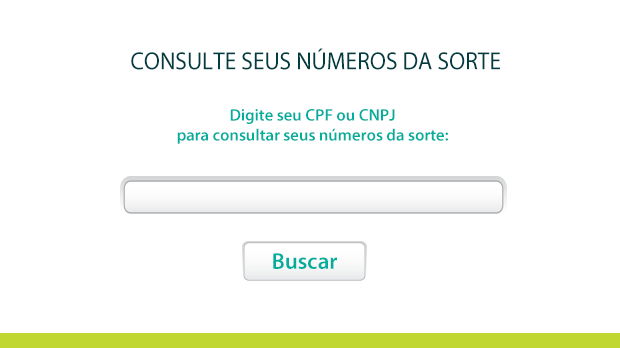
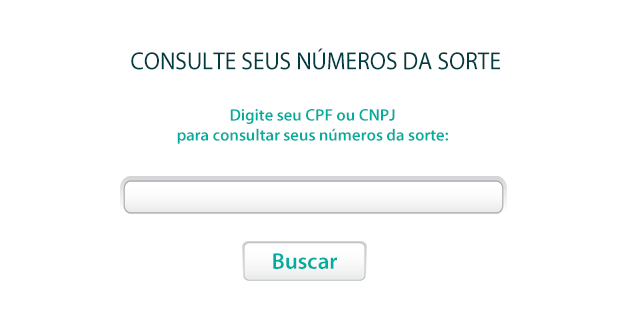
Consult

diff --git a/public/site/css/style.css b/public/site/css/style.css
@@ -1690,29 +1690,59 @@ h1, h2, h3, h4, h5, h6, figure {
 }
 .box-consult{
     display: inline-block;
-    background-image: url("../images/box-consult.png");
+    background-image: url("../images/login_full.png");
     background-repeat: no-repeat;
-    background-size: cover;
-    width: 460px;
+    background-size: 100%;
+    width:800px;
     height:319px;
+    margin: auto;
+    position: relative;
+    top: 60px;
+    margin-top:100px;
+}
+.form-show-2{display: none}
+.box-consult form{
     float: right;
+    width: 330px;
+    text-align: center;
+}
+.img-table{
+    display: none;
 }
 #txt_cupom{
-    display: inline-block;
+    float: left;
     height: 30px;
-    width: 336px;
+    width: 70%;
     border: 0px;
-    margin-top: 165px;
-    margin-left: -20px;
+    margin-top: 120px;
+    margin-left:40px;
     background: none;
 }
 #btn_search_cupom{
-    display: inline-block;
+    float: left;
+    height: 40px;
+    width: 150px;
+    border: 0px;
+    margin-top: 15px;
+    margin-left: 45px;
+    background: none;
+}
+#txt_cupom1{
+    float: left;
+    height: 30px;
+    width: 70%;
+    border: 0px;
+    margin-top: 165px;
+    margin-left:55px;
+    background: none;
+}
+#btn_search_cupom1{
+    float: left;
     height: 40px;
     width: 150px;
     border: 0px;
     margin-top: 25px;
-    margin-left: -6px;
+    margin-left: 85px;
     background: none;
 }
 .tbl-numeros-sorte{
@@ -1946,6 +1976,8 @@ ul.list-results-content li .second{
         max-height: 300px;
         padding-top: 20px;
     }
+
+
 }
 @media screen and (max-width: 805px) {
     .fh5co-nav ul li a {
@@ -1971,6 +2003,65 @@ ul.list-results-content li .second{
         width: 100%;
         height: 500px;
         margin-bottom: 20px;
+    }
+
+    #fh5co-register{
+        background-image: none!important;
+        border: 0px;
+        padding: 0px!important;
+        height: auto;
+        min-height: 100px;
+        background: #ffffff;
+        margin-top: 0px;
+        padding-bottom: 30px;
+    }
+    .box-consult {
+        display: block;
+        background-image: url("../images/box-consult-responsive.png");
+        background-repeat: no-repeat;
+        background-size: cover;
+        background-position: center center;
+        width: 400px;
+        height: 319px;
+        margin-top: 0px;
+        padding-top: 0px;
+        margin: auto!important;
+    }
+    .box-consult form{
+        width: 100%;
+        position: relative;
+        top: 13px;
+    }
+    #txt_cupom{
+        float: left;
+        height: 30px;
+        width: 70%;
+        border: 0px;
+        margin-top: 165px;
+        margin-left:55px;
+        background: none;
+    }
+    #btn_search_cupom{
+        float: left;
+        height: 40px;
+        width: 150px;
+        border: 0px;
+        margin-top: 25px;
+        margin-left: 105px;
+        background: none;
+    }
+    .img-table{
+        display: block;
+        width: 100%;
+        margin-bottom: 30px;
+    }
+
+    #sw-my-numbers h1{
+        font-size: 20px;
+        margin-top: 0px;
+    }
+    #sw-my-numbers h3{
+        font-size: 15px;
     }
 }
 @media screen and (max-width: 768px) {
@@ -2115,6 +2206,13 @@ ul.list-results-content li .second{
         width: 100%;
         height: 319px;
         float: left;
+    }
+    #sw-my-numbers h1{
+        font-size: 15px;
+        margin-top: 0px;
+    }
+    #sw-my-numbers h3{
+        font-size: 13px;
     }
 }
 @media screen and (max-width: 290px) {

diff --git a/resources/views/site/partials/my-numbers.blade.php b/resources/views/site/partials/my-numbers.blade.php
@@ -1,6 +1,37 @@
 <div id="my-numbers"></div>
 <div id="fh5co-course-categories">
-    <div class="container">
+
+    <div class="col-md-12 img-table">
+        <table class="table table-condensed tbl-numeros-sorte">
+            <thead>
+            <tr>
+                <th class="col-md-8">Período considerado para <br/>distribuição dos Números da Sorte</th>
+                <th class="col-md-4">Data disponibilização Números da<br/> Sorte referente ao período do hotsite</th>
+            </tr>
+            </thead>
+            <tbody>
+            <tr>
+                <td class="text-left">De 0h do dia 15/11/2017 até às 23h59m59s do dia 30/11/2017</td>
+                <td>Até 15/12/2017</td>
+            </tr>
+            <tr>
+                <td class="text-left">De 0h do dia 01/12/2017 até às 23h59m59s do dia 31/11/2017</td>
+                <td>Até 17/12/2018</td>
+            </tr>
+            <tr>
+                <td class="text-left">De 0h do dia 01/01/2018 até às 23h59m59s do dia 31/01/2017</td>
+                <td>Até 20/02/2018</td>
+            </tr>
+            <tr>
+                <td class="text-left">De 0h do dia 01/02/2018 até às 23h59m59s do dia 18/02/2017</td>
+                <td>Até 01/03/2018</td>
+            </tr>
+            </tbody>
+        </table>
+    </div>
+
+
+    <div class="container" id="sw-my-numbers">
         <div class="row animate-box">
             <div class="col-md-6 col-md-offset-3 text-center fh5co-heading fh5co-heading-1">
                 <h1>MEUS NÚMEROS DA SORTE</h1>

diff --git a/resources/views/site/partials/form-search.blade.php b/resources/views/site/partials/form-search.blade.php
@@ -1,5 +1,21 @@
 <div id="lk_formconsult"></div>
-<div id="fh5co-register" style="background-image: url({{asset('site/images/img_bg_2.jpg')}});">
+<div class="form-show-2" id="fh5co-register" style="background-image: url({{asset('site/images/img_bg_2.jpg')}});">
+    <div class="row" >
+        <div class="col-md-8 col-md-offset-2 animate-box">
+            <div class="date-counter text-center">
+                <div class="box-consult">
+                    <form action="{{route('cupons.consult')}}" method="post">
+                        {{ csrf_field() }}
+                        <input type="text" name="txt_document" id="txt_cupom1" onkeypress="onlyNumber('#txt_cupom1');">
+                        <input type="submit" id="btn_search_cupom1" value="">
+                    </form>
+                </div>
+            </div>
+        </div>
+    </div>
+</div>
+
+<div class="form-show-1" id="fh5co-register" style="background-image: url({{asset('site/images/img_bg_2.jpg')}});">
     <div class="row" >
         <div class="col-md-8 col-md-offset-2 animate-box">
             <div class="date-counter text-center">

diff --git a/resources/views/site/index.blade.php b/resources/views/site/index.blade.php
@@ -27,7 +27,7 @@
                                 e Visa: Clássico, Gold e Platinum.
                             </h3>
                             <h4><strong>Campanha exclusiva para associados das cooperativas filiadas ao Sicoob Central Crediminas.</strong></h4>
-                            <div class="col-md-12">
+                            <div class="col-md-12 hidden">
                                 <table class="table table-condensed tbl-numeros-sorte">
                                     <thead>
                                     <tr>
@@ -37,7 +37,7 @@
                                     </thead>
                                     <tbody>
                                     <tr>
-                                        <td class="text-left">De 0h do dia 15/01/2017 até às 23h59m59s do dia 30/11/2017</td>
+                                        <td class="text-left">De 0h do dia 15/11/2017 até às 23h59m59s do dia 30/11/2017</td>
                                         <td>Até 15/12/2017</td>
                                     </tr>
                                     <tr>
